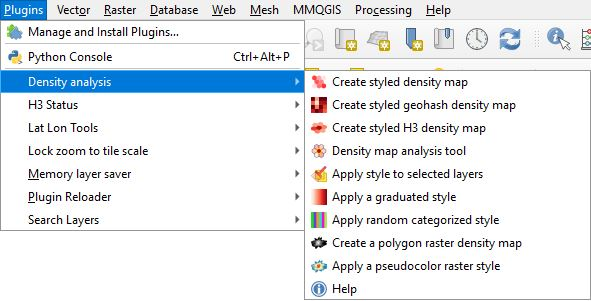
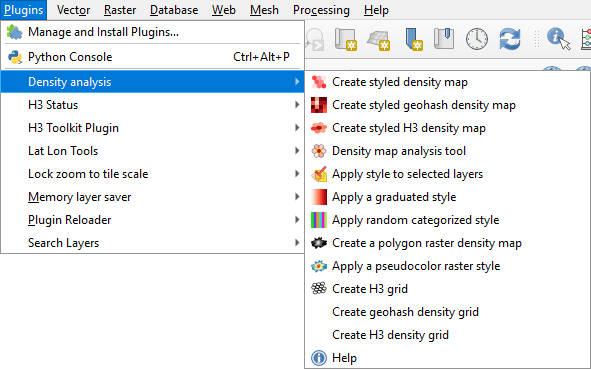
Add h3 grid algorithm.

Changed region(s): [[0.0, 0.0, 1.0, 1.0], [0.0, 0.7176, 0.4873, 0.7774]]

diff --git a/index.html b/index.html
@@ -37,7 +37,7 @@ code {
 </head>
 <body>
 <h1>QGIS Density Analysis Plugin</h1>
-<p>This plugin automates the creation of vector density heatmaps in QGIS with a heatmap explorer to examine the areas of greatest concentrations. It has two processing algorithms to create a gradient style and random style so that they can be used in QGIS models. Another tool allows a copied style or a .qml file to be pasted onto all selected layers. It provides an algorithm to create a raster density map of polygons and a pseudocolor processing algorithm to style the results. Once installed, the plugin is located under <strong><em>Plugins-&gt;Density analysis</em></strong> in the QGIS menu or on the toolbar. Some algorithms can be found in the <em>Processing Toolbox</em>.</p>
+<p>This plugin automates the creation of vector density heatmaps in QGIS with a heatmap explorer to examine the areas of greatest concentrations. It has two processing algorithms to create a gradient style and random style so that they can be used in QGIS models. Another tool allows a copied style or a .qml file to be pasted onto all selected layers. It provides an algorithm to create a raster density map of polygons and a pseudocolor processing algorithm to style the results. Once installed, the plugin is located under <strong><em>Plugins-&gt;Density analysis</em></strong> in the QGIS menu, on the toolbar, and can be found in the <em>Processing Toolbox</em> under <em>Density analysis</em>.</p>
 <div style="text-align:center"><img src="help/menu.jpg" alt="Density Analysis"></div>
 
 <p>Note that one of the algorithms used in this plugin makes use of <strong>H3</strong> (Hexagonal hierarchical geospatial indexing system). This is an incredibly fast algorithm for generating hexagon density maps, but requires installation of the <strong>H3 python library</strong>. The H3 package can be installed by running the OSGeo4W shell as system administrator and running 'pip install h3' or whatever method you use to install python packages. After spending some time working with it, I think it would be beneficial to include it as one of the QGIS libraries in the future. In one test using the QGIS <strong><em>Create grid</em></strong> processing algorithm, followed by <strong><em>Count points in a polygon</em></strong> algorithm took 63.18 seconds to process spatially indexed point data. To do the same thing with H3 only took 3.79 seconds.</p>
@@ -258,4 +258,11 @@ The H3 package can be installed by running the OSGeo4W shell as system administr
 <h2><img src="icons/styleraster.png" alt="Create a polygon density map" width="28" height="28"> Apply a pseudocolor raster style</h2>
 <div style="text-align:center"><img src="help/pseudocolorstyle.png" alt="Pseudocolor raster style dialog"></div>
 
-<p>This achieves some of the functionality you get from right-mouse clicking on a single band image and selecting properties and selecting the <em>Symbology</em> tab and choosing <strong><em>Singleband pseudocolor</em></strong> for the <strong>*Render type</strong>. For more information on the parameters visit the QGIS documentation.</p></body>
+<p>This achieves some of the functionality you get from right-mouse clicking on a single band image and selecting properties and selecting the <em>Symbology</em> tab and choosing <strong><em>Singleband pseudocolor</em></strong> for the <strong>*Render type</strong>. For more information on the parameters visit the QGIS documentation.</p>
+<h2><img src="help/h3grid.png" alt="Create H3 grid" width="24" height="24"> Create H3 grid</h2>
+<p>This will create a grid of H3 polygons based on the extent of a layer, canvas, or user drawn extent. <strong><em>H3 Resolution</em></strong> is a value between 0 and 15 specifying the resolution of the H3 grid. </p>
+<h2>Create geohash density grid</h2>
+<p>This is the same as <strong><em>Create styled geohash density map</em></strong>, but without the styling. The algorithm iterates through every point of the input layer indexing them using a geohash with a count of the number of times each geohash has been seen and added to the <strong>NUMPOINTS</strong> attribute. The bounds of each geohash cell is then created as a polygon. Depending on the resolution these polygon are either a square or rectangle.</p>
+<h2>Create H3 density grid</h2>
+<p>This is the same as <strong><em>Create styled H3 density map</em></strong>, but without the styling. This algorithm uses the H3 (Hexagonal hierarchical geospatial indexing system) library for fast density map generation. It iterates through every point of the input layer using H3 indexing with a count of the number of times each H3 index has been seen. Each H3 cell is then created as a polygon. The polygons are in a hexagon shape. </p>
+<p>To create H3 density maps you will need to install the H3 Library (<a href="https://h3geo.org/">https://h3geo.org/</a>).</p></body>

diff --git a/h3grid.py b/h3grid.py
@@ -1,0 +1,167 @@
+import os
+import json
+from qgis.PyQt.QtGui import QIcon
+from qgis.PyQt.QtCore import QVariant
+from qgis.core import Qgis, QgsWkbTypes, QgsFields, QgsField, QgsCoordinateTransform, QgsCoordinateReferenceSystem,  QgsFeature, QgsGeometry, QgsPointXY, QgsProject
+
+from qgis.core import (
+    QgsProcessing,
+    QgsProcessingAlgorithm,
+    QgsProcessingParameterNumber,
+    QgsProcessingParameterExtent,
+    QgsProcessingParameterFeatureSink
+    )
+import processing
+
+class H3GridAlgorithm(QgsProcessingAlgorithm):
+
+    def initAlgorithm(self, config=None):
+        self.addParameter(
+            QgsProcessingParameterExtent('EXTENT', 'Grid extent', optional=False)
+        )
+        param = QgsProcessingParameterNumber('RESOLUTION', 'H3 Resolution',
+                type=QgsProcessingParameterNumber.Integer, minValue=0, defaultValue=9, maxValue=15, optional=False)
+        if Qgis.QGIS_VERSION_INT >= 31600:
+            param.setHelp(
+                '''
+                The resolution level of the grid, as defined in the H3 standard.
+                <br>
+                <table>
+                  <tr>
+                    <th>Resolution<br>Level</th>
+                    <th>Avg. Hexagon<br>Edge Length</th>
+                  </tr>
+                  <tr>
+                    <td style="text-align: center">0</td>
+                    <td style="text-align: center">1107.71 km</td>
+                  </tr>
+                  <tr>
+                    <td style="text-align: center">1</td>
+                    <td style="text-align: center">418.68 km</td>
+                  </tr>
+                  <tr>
+                    <td style="text-align: center">2</td>
+                    <td style="text-align: center">158.24 km</td>
+                  </tr>
+                  <tr>
+                    <td style="text-align: center">3</td>
+                    <td style="text-align: center">59.81 km</td>
+                  </tr>
+                  <tr>
+                    <td style="text-align: center">4</td>
+                    <td style="text-align: center">22.61 km</td>
+                  </tr>
+                  <tr>
+                    <td style="text-align: center">5</td>
+                    <td style="text-align: center">8.54 km</td>
+                  </tr>
+                  <tr>
+                    <td style="text-align: center">6</td>
+                    <td style="text-align: center">3.23 km</td>
+                  </tr>
+                  <tr>
+                    <td style="text-align: center">7</td>
+                    <td style="text-align: center">1.22 km</td>
+                  </tr>
+                  <tr>
+                    <td style="text-align: center">8</td>
+                    <td style="text-align: center">461.35 m</td>
+                  </tr>
+                  <tr>
+                    <td style="text-align: center">9</td>
+                    <td style="text-align: center">174.38 m</td>
+                  </tr>
+                  <tr>
+                    <td style="text-align: center">10</td>
+                    <td style="text-align: center">65.91 m</td>
+                  </tr>
+                  <tr>
+                    <td style="text-align: center">11</td>
+                    <td style="text-align: center">24.91 m</td>
+                  </tr>
+                  <tr>
+                    <td style="text-align: center">12</td>
+                    <td style="text-align: center">9.42 m</td>
+                  </tr>
+                  <tr>
+                    <td style="text-align: center">13</td>
+                    <td style="text-align: center">3.56 m</td>
+                  </tr>
+                  <tr>
+                    <td style="text-align: center">14</td>
+                    <td style="text-align: center">1.35 m</td>
+                  </tr>
+                  <tr>
+                    <td style="text-align: center">15</td>
+                    <td style="text-align: center">0.51 m</td>
+                  </tr>
+                </table>
+                '''
+            )
+        self.addParameter(param)
+        self.addParameter(
+            QgsProcessingParameterFeatureSink('OUTPUT', 'Output H3 grid',
+                type=QgsProcessing.TypeVectorPolygon, createByDefault=True, defaultValue=None)
+        )
+
+    def processAlgorithm(self, parameters, context, feedback):
+        try:
+            import h3
+        except Exception:
+            from .utils import h3InstallString
+            feedback.reportError(h3InstallString)
+            return {}
+
+        extent = self.parameterAsExtent(parameters, 'EXTENT', context)
+        if extent.isNull():
+            raise QgsProcessingException('Invalid extent')
+        extent_crs = self.parameterAsExtentCrs(parameters, 'EXTENT', context)
+
+        resolution = self.parameterAsInt(parameters, 'RESOLUTION', context)
+        if resolution < 0 or resolution > 15:
+            raise QgsProcessingException('Invalid input resolution')
+        
+        epsg4326 = QgsCoordinateReferenceSystem("EPSG:4326")
+        fields = QgsFields()
+        fields.append(QgsField('ID', QVariant.Int))
+        fields.append(QgsField('H3HASH', QVariant.String))
+        (sink, dest_id) = self.parameterAsSink(
+            parameters, 'OUTPUT',
+            context, fields, QgsWkbTypes.Polygon, epsg4326)
+        
+        if extent_crs != epsg4326:
+            # The extent needs to be in EPSG:4326
+            transform = QgsCoordinateTransform(extent_crs, epsg4326, QgsProject.instance())
+            extent = transform.transform(extent)
+        json_str = QgsGeometry.fromRect(extent).asJson()
+        js = json.loads(json_str)
+        h3_ids = h3.polyfill(js, resolution, geo_json_conformant=True)
+        if feedback.isCanceled():
+            raise QgsProcessingException('Operation canceled')
+        feedback.setProgress(50)
+        if len(h3_ids) == 0:
+            return {'OUTPUT': dest_id}
+        total = 50 / len(h3_ids)
+        for i, h3str in enumerate(h3_ids):
+            coords = h3.h3_to_geo_boundary(h3str)
+            geom = QgsGeometry.fromPolygonXY([[QgsPointXY(lon, lat) for lat, lon in coords], ])
+            f = QgsFeature()
+            f.setGeometry(geom)
+            f.setAttributes([i, h3str])
+            sink.addFeature(f)
+            if i % 100 == 0:
+                feedback.setProgress(int(i * total)+50)
+            
+        return {'OUTPUT': dest_id}
+
+    def name(self):
+        return 'h3grid'
+
+    def displayName(self):
+        return 'Create H3 grid'
+
+    def icon(self):
+        return QIcon(os.path.join(os.path.dirname(__file__), 'icons/h3grid.svg'))
+
+    def createInstance(self):
+        return H3GridAlgorithm()

diff --git a/densityanalysis.py b/densityanalysis.py
@@ -7,6 +7,13 @@ from qgis.core import QgsApplication
 import processing
 from .provider import DensityAnalysisProvider
 
+try:
+    import h3
+    h3_installed = True
+except Exception:
+    from .utils import h3InstallString
+    h3_installed = False
+
 import os
 
 class DensityAnalysis(object):
@@ -76,6 +83,19 @@ class DensityAnalysis(object):
         self.toolbar.addAction(self.rasterStyleAction)
         self.iface.addPluginToMenu("Density analysis", self.rasterStyleAction)
         
+        icon = QIcon(os.path.dirname(__file__) + '/icons/h3grid.svg')
+        self.h3GridAction = QAction(icon, "Create H3 grid", self.iface.mainWindow())
+        self.h3GridAction.triggered.connect(self.h3Grid)
+        self.iface.addPluginToMenu("Density analysis", self.h3GridAction)
+
+        self.geohashDensityGridAction = QAction("Create geohash density grid", self.iface.mainWindow())
+        self.geohashDensityGridAction.triggered.connect(self.geohashDensityGrid)
+        self.iface.addPluginToMenu("Density analysis", self.geohashDensityGridAction)
+
+        self.h3DensityGridAction = QAction("Create H3 density grid", self.iface.mainWindow())
+        self.h3DensityGridAction.triggered.connect(self.h3DensityGrid)
+        self.iface.addPluginToMenu("Density analysis", self.h3DensityGridAction)
+
         # Help
         icon = QIcon(os.path.dirname(__file__) + '/icons/help.svg')
         self.helpAction = QAction(icon, "Help", self.iface.mainWindow())
@@ -95,6 +115,9 @@ class DensityAnalysis(object):
         self.iface.removePluginMenu('Density analysis', self.heatmapAction)
         self.iface.removePluginMenu('Density analysis', self.style2layersAction)
         self.iface.removePluginMenu('Density analysis', self.rasterStyleAction)
+        self.iface.removePluginMenu("Density analysis", self.h3GridAction)
+        self.iface.removePluginMenu("Density analysis", self.geohashDensityGridAction)
+        self.iface.removePluginMenu("Density analysis", self.h3DensityGridAction)
         self.iface.removePluginMenu("Density analysis", self.helpAction)
         if self.heatmap_dialog:
             self.iface.removeDockWidget(self.heatmap_dialog)
@@ -127,11 +150,9 @@ class DensityAnalysis(object):
         processing.execAlgorithmDialog('densityanalysis:geohashdensitymap', {})
 
     def h3Algorithm(self):
-        try:
-            import h3
+        if h3_installed:
             processing.execAlgorithmDialog('densityanalysis:h3densitymap', {})
-        except Exception:
-            from .utils import h3InstallString
+        else:
             QMessageBox.information(self.iface.mainWindow(), 'H3 Install Instructions', h3InstallString)
 
     def graduatedStyleAlgorithm(self):
@@ -151,6 +172,21 @@ class DensityAnalysis(object):
             from .style2layers import StyleToLayers
             self.style_Layers_dialog = StyleToLayers(self.iface, self.iface.mainWindow())
         self.style_Layers_dialog.show()
+    
+    def geohashDensityGrid(self):
+        processing.execAlgorithmDialog('densityanalysis:geohashdensity', {})
+    
+    def h3DensityGrid(self):
+        if h3_installed:
+            processing.execAlgorithmDialog('densityanalysis:h3density', {})
+        else:
+            QMessageBox.information(self.iface.mainWindow(), 'H3 Install Instructions', h3InstallString)
+    
+    def h3Grid(self):
+        if h3_installed:
+            processing.execAlgorithmDialog('densityanalysis:h3grid', {})
+        else:
+            QMessageBox.information(self.iface.mainWindow(), 'H3 Install Instructions', h3InstallString)
 
     def help(self):
         '''Display a help page'''

diff --git a/provider.py b/provider.py
@@ -6,6 +6,7 @@ from .graduatedstyle import GraduatedStyleAlgorithm
 from .densitygrid import KernelDensityAlgorithm
 from .geohashdensity import GeohashDensityAlgorithm
 from .geohashdensitymap import GeohashDensityMapAlgorithm
+from .h3grid import H3GridAlgorithm
 from .h3density import H3DensityAlgorithm
 from .h3densitymap import H3DensityMapAlgorithm
 from .polygondensity import PolygonRasterDensityAlgorithm
@@ -22,6 +23,7 @@ class DensityAnalysisProvider(QgsProcessingProvider):
         self.addAlgorithm(KernelDensityAlgorithm())
         self.addAlgorithm(GeohashDensityAlgorithm())
         self.addAlgorithm(GeohashDensityMapAlgorithm())
+        self.addAlgorithm(H3GridAlgorithm())
         self.addAlgorithm(H3DensityAlgorithm())
         self.addAlgorithm(H3DensityMapAlgorithm())
         self.addAlgorithm(RasterStyleAlgorithm())

diff --git a/polygondensity.py b/polygondensity.py
@@ -74,7 +74,7 @@ class PolygonRasterDensityAlgorithm(QgsProcessingAlgorithm):
         )
         self.addParameter(
             QgsProcessingParameterNumber('MAX_IMAGE_DIMENSION', 'Maximum width or height dimensions for output image',
-                type=QgsProcessingParameterNumber.Integer, minValue=1, defaultValue=5000, optional=False)
+                type=QgsProcessingParameterNumber.Integer, minValue=1, defaultValue=20000, optional=False)
         )
         self.addParameter(
             QgsProcessingParameterRasterDestination('OUTPUT', 'Output polygon density heatmap',

diff --git a/readme.md b/readme.md
@@ -1,6 +1,6 @@
 # QGIS Density Analysis Plugin
 
-This plugin automates the creation of vector density heatmaps in QGIS with a heatmap explorer to examine the areas of greatest concentrations. It has two processing algorithms to create a gradient style and random style so that they can be used in QGIS models. Another tool allows a copied style or a .qml file to be pasted onto all selected layers. It provides an algorithm to create a raster density map of polygons and a pseudocolor processing algorithm to style the results. Once installed, the plugin is located under ***Plugins->Density analysis*** in the QGIS menu or on the toolbar. Some algorithms can be found in the *Processing Toolbox*.
+This plugin automates the creation of vector density heatmaps in QGIS with a heatmap explorer to examine the areas of greatest concentrations. It has two processing algorithms to create a gradient style and random style so that they can be used in QGIS models. Another tool allows a copied style or a .qml file to be pasted onto all selected layers. It provides an algorithm to create a raster density map of polygons and a pseudocolor processing algorithm to style the results. Once installed, the plugin is located under ***Plugins->Density analysis*** in the QGIS menu, on the toolbar, and can be found in the *Processing Toolbox* under *Density analysis*.
 
 <div style="text-align:center"><img src="help/menu.jpg" alt="Density Analysis"></div>
 
@@ -248,5 +248,16 @@ The parameters in dialog box are as follows:
 
 This achieves some of the functionality you get from right-mouse clicking on a single band image and selecting properties and selecting the *Symbology* tab and choosing ***Singleband pseudocolor*** for the ***Render type**. For more information on the parameters visit the QGIS documentation.
 
+## <img src="help/h3grid.png" alt="Create H3 grid" width="24" height="24"> Create H3 grid
 
+This will create a grid of H3 polygons based on the extent of a layer, canvas, or user drawn extent. ***H3 Resolution*** is a value between 0 and 15 specifying the resolution of the H3 grid. 
 
+## Create geohash density grid
+
+This is the same as ***Create styled geohash density map***, but without the styling. The algorithm iterates through every point of the input layer indexing them using a geohash with a count of the number of times each geohash has been seen and added to the **NUMPOINTS** attribute. The bounds of each geohash cell is then created as a polygon. Depending on the resolution these polygon are either a square or rectangle.
+
+## Create H3 density grid
+
+This is the same as ***Create styled H3 density map***, but without the styling. This algorithm uses the H3 (Hexagonal hierarchical geospatial indexing system) library for fast density map generation. It iterates through every point of the input layer using H3 indexing with a count of the number of times each H3 index has been seen. Each H3 cell is then created as a polygon. The polygons are in a hexagon shape. 
+
+To create H3 density maps you will need to install the H3 Library (<a href="https://h3geo.org/">https://h3geo.org/</a>).
